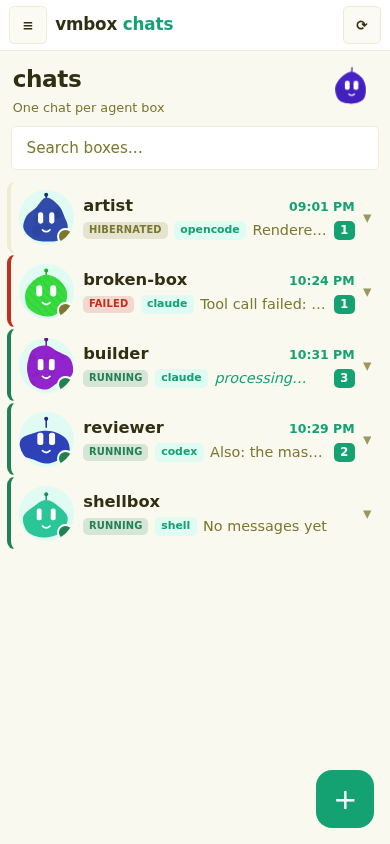
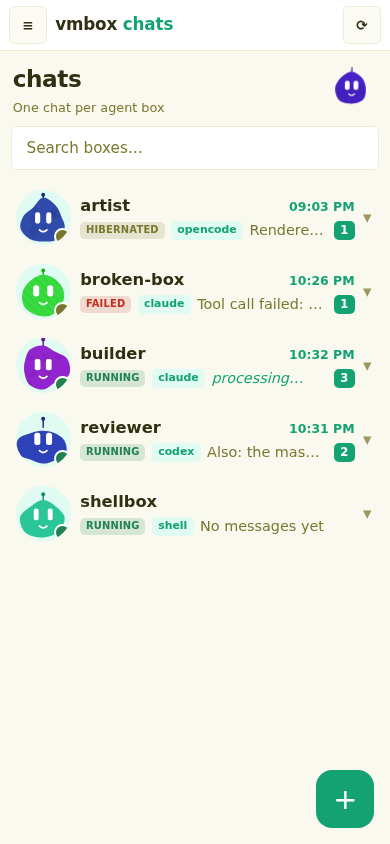
Remove the list row status rail
Keep the colour-coded state pill but drop the coloured left border on
chat list rows, per review.

Changed region(s): [[0.0, 0.2156, 0.8308, 0.6469], [0.8, 0.4929, 0.8308, 0.5237]]

diff --git a/internal/controller/web/chat.css b/internal/controller/web/chat.css
@@ -78,14 +78,9 @@ body{max-width:none;margin:0;padding:0;height:100%;
 #chat-filter::placeholder{color:var(--ink-soft)}
 #chat-entries{list-style:none;margin:0;padding:.15rem .45rem 5.5rem;overflow-y:auto;flex:1;-webkit-overflow-scrolling:touch}
 #chat-entries li{display:flex;gap:.6rem;align-items:center;padding:.55rem .5rem;cursor:pointer;
-  border-radius:var(--radius);border:1px solid transparent;border-left-width:4px;position:relative;transition:background .14s,border-color .14s}
+  border-radius:var(--radius);border:1px solid transparent;position:relative;transition:background .14s,border-color .14s}
 #chat-entries li:hover{background:var(--surface2)}
 #chat-entries li.active{background:var(--surface);border-color:var(--accent);box-shadow:var(--shadow)}
-#chat-entries li[data-state="running"]{border-left-color:var(--ok)}
-#chat-entries li[data-state="failed"]{border-left-color:var(--danger)}
-#chat-entries li[data-state="starting"]{border-left-color:var(--warn)}
-#chat-entries li[data-state="muted"]{border-left-color:var(--line)}
-#chat-entries li.active{border-left-color:var(--accent)}
 .row-state{flex:none;font-size:.62rem;font-weight:800;letter-spacing:.02em;text-transform:uppercase;
   padding:.08rem .36rem;border-radius:var(--radius-sm);color:var(--ink-soft);
   background:color-mix(in srgb,var(--ink-soft) 16%,transparent)}
